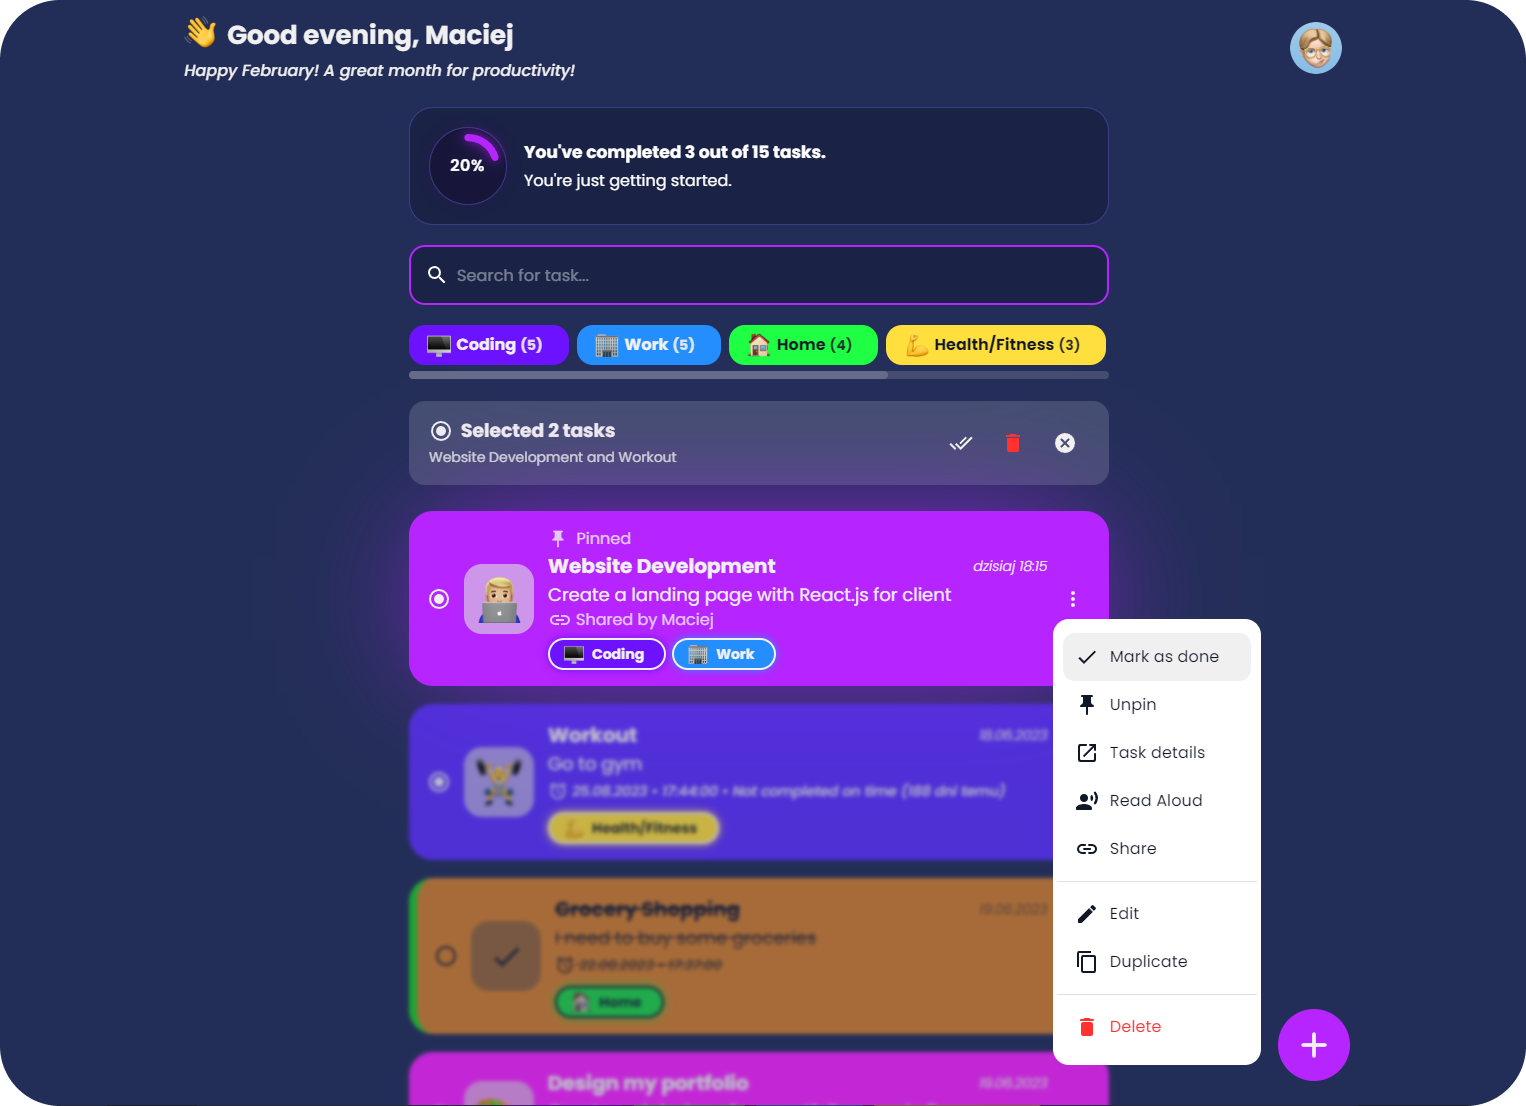
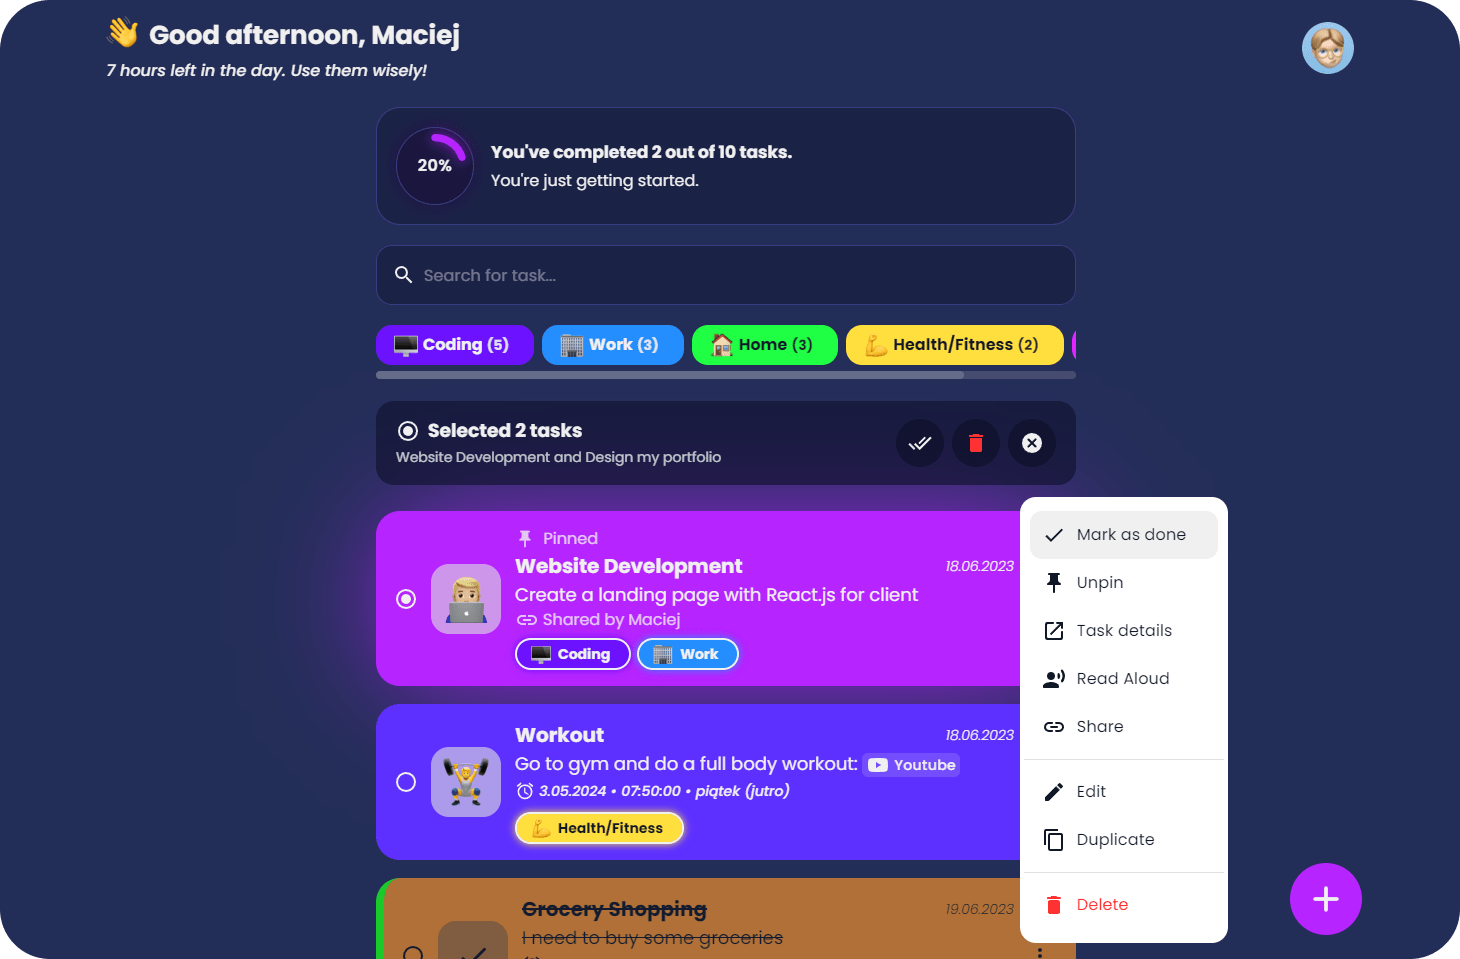
basic changes

diff --git a/src/utils/updatePrompt.tsx b/src/utils/updatePrompt.tsx
@@ -1,4 +1,4 @@
-import { Button } from "@mui/material";
+import { Button, Stack, Typography } from "@mui/material";
 import { UpdateRounded } from "@mui/icons-material";
 import toast from "react-hot-toast";
 
@@ -11,43 +11,36 @@ import toast from "react-hot-toast";
 export const updatePrompt = (r: ServiceWorkerRegistration): void => {
   r.addEventListener("updatefound", () => {
     const newWorker = r.installing;
+
     if (newWorker) {
       newWorker.addEventListener("statechange", () => {
-        if (newWorker.state === "installed") {
-          if (navigator.serviceWorker.controller) {
-            toast(
-              (t) => (
-                <div>
-                  <div style={{ fontWeight: 700 }}>
-                    A new version of the app is available. Reload to update?
-                  </div>
-                  <div
-                    style={{
-                      display: "flex",
-                      justifyContent: "left",
-                      gap: "8px",
-                      marginTop: "12px",
+        if (newWorker.state === "installed" && navigator.serviceWorker.controller) {
+          toast(
+            (t) => (
+              <Stack spacing={2}>
+                <Typography variant="subtitle1" fontWeight={700}>
+                  A new version of the app is available. Reload to update?
+                </Typography>
+                <Stack direction="row" spacing={1}>
+                  <Button
+                    fullWidth
+                    variant="contained"
+                    onClick={() => {
+                      newWorker.postMessage({ type: "SKIP_WAITING" });
+                      toast.dismiss(t.id);
                     }}
+                    startIcon={<UpdateRounded />}
                   >
-                    <Button
-                      fullWidth
-                      variant="contained"
-                      onClick={() => {
-                        newWorker.postMessage({ type: "SKIP_WAITING" });
-                        toast.dismiss(t.id);
-                      }}
-                    >
-                      <UpdateRounded /> &nbsp; Reload
-                    </Button>
-                    <Button fullWidth variant="outlined" onClick={() => toast.dismiss(t.id)}>
-                      Dismiss
-                    </Button>
-                  </div>
-                </div>
-              ),
-              { duration: 9999999, style: { border: "none" } },
-            );
-          }
+                    Reload
+                  </Button>
+                  <Button fullWidth variant="outlined" onClick={() => toast.dismiss(t.id)}>
+                    Dismiss
+                  </Button>
+                </Stack>
+              </Stack>
+            ),
+            { duration: Infinity, style: { border: "none" } },
+          );
         }
       });
     }

diff --git a/src/components/EmojiPicker.tsx b/src/components/EmojiPicker.tsx
@@ -135,7 +135,6 @@ export const CustomEmojiPicker = ({ emoji, setEmoji, color, name, type }: EmojiP
         }: ${name}. (For example: 🖥 for coding, 📝 for writing, 🎨 for design, 📱 for mobile development) Please use the actual emoji, do not use shortcodes. Type 'none' if not applicable.`,
       );
       console.log("Full AI response:", response);
-
       // Map to replace emoji shortcodes with actual emojis due to AI occasionally returning shortcodes.
       const emojiMap: {
         [key: string]: string;
@@ -154,6 +153,7 @@ export const CustomEmojiPicker = ({ emoji, setEmoji, color, name, type }: EmojiP
         "☮": "✌",
         "🎙": "🎙",
         "🗣": "🗣",
+        "✈": "✈",
       };
       let emojiResponse = response.trim();
       if (emojiMap[emojiResponse]) {
@@ -359,12 +359,12 @@ export const CustomEmojiPicker = ({ emoji, setEmoji, color, name, type }: EmojiP
               </EmojiPickerContainer>
             </DialogContent>
             <DialogActions>
-              <DialogBtn onClick={toggleEmojiPicker}>Cancel</DialogBtn>
               {currentEmoji && (
                 <DialogBtn color="error" onClick={handleRemoveEmoji}>
                   <RemoveCircleOutline /> &nbsp; Remove Emoji
                 </DialogBtn>
               )}
+              <DialogBtn onClick={toggleEmojiPicker}>Cancel</DialogBtn>
             </DialogActions>
           </Dialog>
         </>

diff --git a/src/styles/globalStyles.tsx b/src/styles/globalStyles.tsx
@@ -113,10 +113,15 @@ export const GlobalStyles = () => {
 
         .EmojiPickerReact {
           --epr-search-border-color: ${theme.primary} !important;
+          --epr-hover-bg-color-reduced-opacity: ${theme.primary + "64"} !important;
+          --epr-hover-bg-color: ${theme.primary} !important;
+          --epr-focus-bg-color: ${theme.primary + "64"} !important;
           --epr-dark-bg-color: ${ColorPalette.darkMode} !important;
           --epr-dark-category-label-bg-color: ${ColorPalette.darkMode + "d8"} !important;
-          --epr-skin-tone-picker-menu-color: ${ColorPalette.darkMode} !important;
-          --epr-emoji-variation-picker-bg-color: ${ColorPalette.darkMode} !important;
+          --epr-skin-tone-picker-menu-color: transparent !important;
+          --epr-emoji-variation-picker-bg-color: ${theme.darkmode
+            ? ColorPalette.darkMode
+            : ColorPalette.lightMode} !important;
           --epr-emoji-variation-picker-menu-color: ${ColorPalette.darkMode} !important;
           --epr-dark-search-input-bg-color-active: #313131 !important;
           --epr-dark-picker-border-color: #616161 !important;

diff --git a/src/components/ColorPicker.tsx b/src/components/ColorPicker.tsx
@@ -100,9 +100,6 @@ export const ColorPicker: React.FC<ColorPickerProps> = ({
     setAddColorVal(selectedColor);
   };
 
-  const handlePickerChange = (e: React.ChangeEvent<HTMLInputElement>) =>
-    setAddColorVal(e.target.value as string);
-
   const ToastColorOptions = (color: string): Pick<ToastOptions, "iconTheme" | "style"> => {
     return {
       iconTheme: { primary: color, secondary: getFontColor(color) },
@@ -283,7 +280,7 @@ export const ColorPicker: React.FC<ColorPickerProps> = ({
               type="color"
               // list={systemInfo.os === "iOS" ? "color-list" : undefined}
               value={addColorVal}
-              onChange={handlePickerChange}
+              onChange={(e) => setAddColorVal(e.target.value as string)}
             />
             {/* <datalist id="color-list">
               <option value={theme.primary} />
@@ -386,7 +383,7 @@ const StyledInfo = styled.span<{ clr: string }>`
   opacity: 0.8;
   display: flex;
   align-items: center;
-  gap: 4px;
+  gap: 6px;
   margin-top: 8px;
   margin-left: 4px;
   font-size: 14px;

diff --git a/src/services/githubApi.ts b/src/services/githubApi.ts
@@ -21,7 +21,6 @@ export const fetchGitHubInfo = async (): Promise<GitHubInfoResponse> => {
         repoResponse.json() as Promise<GitHubRepoResponse>,
         branchResponse.json() as Promise<GitHubBranchResponse>,
       ]);
-      console.log(repoData);
 
       return {
         repoData,
@@ -45,5 +44,5 @@ export const fetchGitHubInfo = async (): Promise<GitHubInfoResponse> => {
     }
   }
   // Return a default value in case of error
-  return { repoData: {} as GitHubRepoResponse, branchData: {} as GitHubBranchResponse };
+  return { repoData: {}, branchData: {} } as GitHubInfoResponse;
 };

diff --git a/src/theme/muiComponents.ts b/src/theme/muiComponents.ts
@@ -16,8 +16,22 @@ export const muiComponentsProps: Theme["components"] = {
         padding: "12px 24px",
         borderRadius: "14px",
       },
+      // TODO: use startIcon for mui button icons instead
+      // startIcon: {
+      //   fontSize: "24px",
+      //   "& > *:nth-of-type(1)": {
+      //     fontSize: "inherit",
+      //   },
+      // },
+      // endIcon: {
+      //   fontSize: "24px",
+      //   "& > *:nth-of-type(1)": {
+      //     fontSize: "inherit",
+      //   },
+      // },
     },
   },
+
   MuiSelect: {
     styleOverrides: {
       root: {

diff --git a/src/App.tsx b/src/App.tsx
@@ -50,7 +50,7 @@ function App() {
         } else if (userValue === undefined) {
           // Update only if the property is missing in user
           userObject[key] = defaultValue;
-          // Notify users about update
+          // Notify users about update in user object
           showToast(
             <div>
               Added new property to user object{" "}

diff --git a/src/components/BottomNav.tsx b/src/components/BottomNav.tsx
@@ -155,7 +155,7 @@ const Container = styled(Box)`
 `;
 
 const StyledBottomNavigation = styled(BottomNavigation)<{ glow: boolean }>`
-  border-radius: 24px 24px 0 0;
+  /* border-radius: 24px 24px 0 0; */
   background: ${({ theme, glow }) => `${theme.palette.secondary.main}${glow ? "c8" : "e6"}`};
   backdrop-filter: blur(20px);
   margin: 0px 20px 0px -20px;

diff --git a/src/components/tasks/TaskMenu.tsx b/src/components/tasks/TaskMenu.tsx
@@ -231,7 +231,7 @@ export const TaskMenu = () => {
         );
       },
       {
-        duration: 999999999,
+        duration: Infinity,
         style: {
           border: `1px solid ${theme.darkmode ? "#1b1d4eb7" : "#ededf7b0"} `,
           WebkitBackdropFilter: `blur(${theme.darkmode ? "10" : "14"}px)`,

diff --git a/src/components/tasks/tasks.styled.tsx b/src/components/tasks/tasks.styled.tsx
@@ -74,6 +74,7 @@ export const TaskInfo = styled.div`
 export const TaskHeader = styled.div`
   display: flex;
   align-items: center;
+  gap: 6px;
 `;
 
 export const TaskName = styled.h3<{ done: boolean }>`

diff --git a/README.md b/README.md
@@ -41,15 +41,19 @@
 
 ### 🔗 Share Tasks by Link or QR Code
 
-Easily share your tasks with others using a link or QR code, with the option to download the QR code. [Example Link](https://react-cool-todo-app.netlify.app/share?task=%7B%22done%22%3Afalse%2C%22pinned%22%3Atrue%2C%22name%22%3A%22Website%20Development%22%2C%22description%22%3A%22Create%20a%20landing%20page%20with%20React.js%20for%20client.%20https%3A%2F%2Fwww.youtube.com%2Fwatch%3Fv%3DbMknfKXIFA8%26t%3D23s%26ab_channel%3DfreeCodeCamp.org%22%2C%22emoji%22%3A%221f468-1f3fc-200d-1f4bb%22%2C%22color%22%3A%22%23b624ff%22%2C%22date%22%3A%222024-02-14T23%3A26%3A21.095Z%22%2C%22category%22%3A%5B%7B%22id%22%3A168712541746303%2C%22name%22%3A%22Coding%22%2C%22emoji%22%3A%221f5a5-fe0f%22%2C%22color%22%3A%22%236d12ff%22%7D%2C%7B%22id%22%3A2%2C%22name%22%3A%22Work%22%2C%22emoji%22%3A%221f3e2%22%2C%22color%22%3A%22%23248eff%22%7D%5D%2C%22deadline%22%3A%222024-05-31T16%3A20%22%2C%22lastSave%22%3A%222024-05-11T14%3A18%3A50.269Z%22%7D&userName=Maciej)
+Easily share your tasks with others using a link or QR code, with the option to download the QR code.
 
-<img src="https://raw.githubusercontent.com/maciekt07/TodoApp/main/screenshots/RecievedTask.png" width="260px" alt="Shared Task" />
+**[Example Link](https://react-cool-todo-app.netlify.app/share?task=%7B%22done%22%3Afalse%2C%22pinned%22%3Atrue%2C%22name%22%3A%22Website%20Development%22%2C%22description%22%3A%22Create%20a%20landing%20page%20with%20React.js%20for%20client.%20https%3A%2F%2Fwww.youtube.com%2Fwatch%3Fv%3DbMknfKXIFA8%26t%3D23s%26ab_channel%3DfreeCodeCamp.org%22%2C%22emoji%22%3A%221f468-1f3fc-200d-1f4bb%22%2C%22color%22%3A%22%23b624ff%22%2C%22date%22%3A%222024-02-14T23%3A26%3A21.095Z%22%2C%22category%22%3A%5B%7B%22id%22%3A168712541746303%2C%22name%22%3A%22Coding%22%2C%22emoji%22%3A%221f5a5-fe0f%22%2C%22color%22%3A%22%236d12ff%22%7D%2C%7B%22id%22%3A2%2C%22name%22%3A%22Work%22%2C%22emoji%22%3A%221f3e2%22%2C%22color%22%3A%22%23248eff%22%7D%5D%2C%22deadline%22%3A%222024-05-31T16%3A20%22%2C%22lastSave%22%3A%222024-05-11T14%3A18%3A50.269Z%22%7D&userName=Maciej)**
+
+<img src="https://raw.githubusercontent.com/maciekt07/TodoApp/main/screenshots/RecievedTask.png" width="300px" alt="Shared Task" />
 
 ### 🤖 AI Emoji Suggestions
 
 This uses `window.ai` which is an experimental feature that works only in dev version of Chrome with some flags enabled. [More info](https://afficone.com/blog/window-ai-new-chrome-feature-api/)
 
-<img src="https://raw.githubusercontent.com/maciekt07/TodoApp/main/screenshots/emoji-ai.gif" alt="AI Emoji" width="280px" style="border-radius:12px" />
+Code: [src/components/EmojiPicker.tsx](https://github.com/maciekt07/TodoApp/blob/main/src/components/EmojiPicker.tsx#L111)
+
+<img src="https://raw.githubusercontent.com/maciekt07/TodoApp/main/screenshots/emoji-ai.gif" alt="AI Emoji" width="360px" style="border-radius:12px" />
 
 ### 🎨 Color Themes
 
@@ -69,7 +73,7 @@ Users can import and export tasks to/from JSON files. This feature allows users 
 
 ### 📴 Progressive Web App (PWA)
 
-This app is a Progressive Web App (PWA), which means it can be installed on your device, used even when you're offline and behave like a normal application with shortcuts and badges.
+This app is a Progressive Web App (PWA), which means it can be installed on your device, used even when you're offline and behave like a normal application with shortcuts and badges. It also features a custom update prompt to notify users when a new version is available, allowing for easy refresh to access the latest improvements.
 
 <img src="https://raw.githubusercontent.com/maciekt07/TodoApp/main/screenshots/pwaTaskBar.png" alt="taskbar" width="260px" />
 
